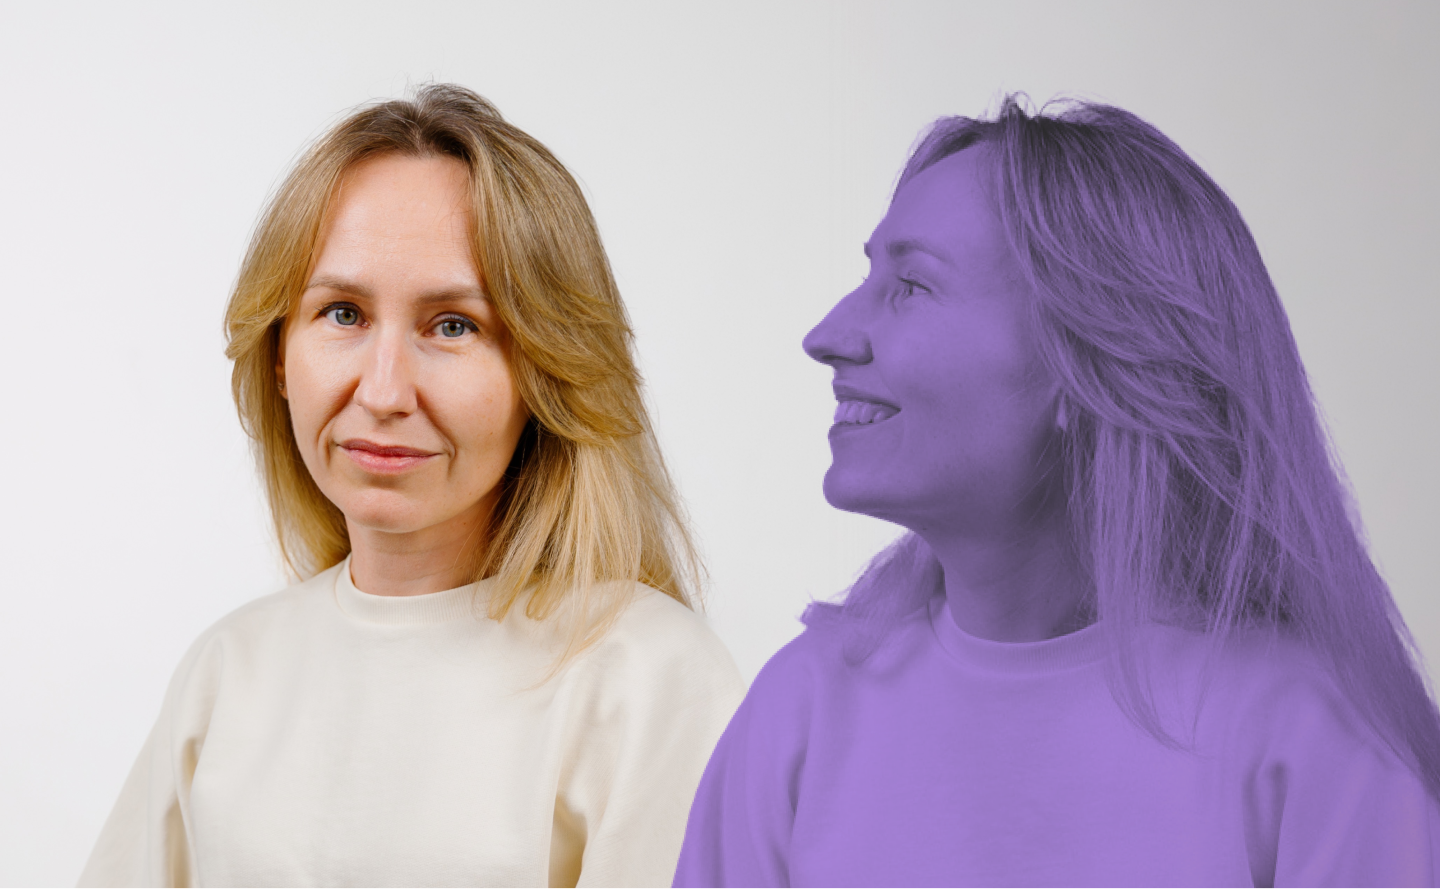
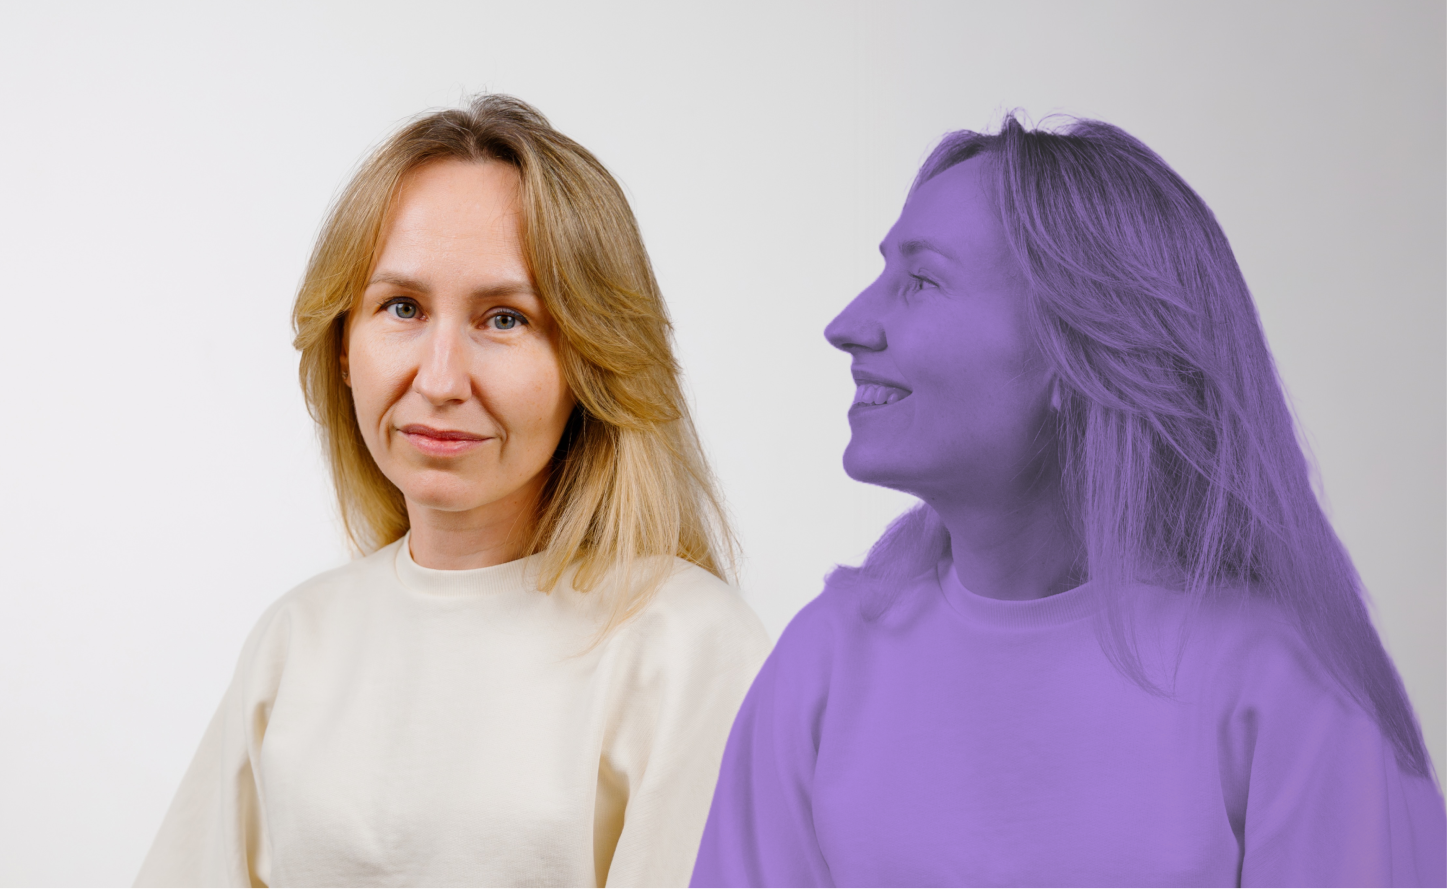
fixes

diff --git a/css/styles.css b/css/styles.css
@@ -11520,6 +11520,9 @@ footer .footer-btn:focus-visible {
     /* 11652 - 10849 */
     width: 403px;
     height: 154px;
+    /* Sit above the F11 orbital rings (.fs-f11__rings, z-index: 1)
+       wherever the two overlap. */
+    z-index: 2;
 }
 
 .fs-f11 .fs-f10__staircase {
@@ -12364,9 +12367,10 @@ a.fs-f11__cta-pdf:focus-visible,
 }
 
 /* Header sits on the dark canvas globally — keep its colors as-is, just
-   ensure it can read against light below it (header itself stays dark). */
+   ensure it can read against light below it (header itself stays dark).
+   Background inherits the shared header colour (var(--bg-secondary), #2F2F2F)
+   so it matches the header on every other page. */
 .exp-page header {
-    background: #272727;
     color: #FFFFFF;
 }
 
@@ -15047,7 +15051,6 @@ a.fs-f11__cta-pdf:focus-visible,
 }
 
 .art-page header {
-    background: #272727;
     color: #FFFFFF;
 }
 
@@ -20030,46 +20033,50 @@ a.fs-f11__cta-pdf:focus-visible,
     object-position: center;
 }
 
-/* Body portrait — scroll crossfade (women1 → women2); js/article.js sets --art-portrait-o1/o2. */
-.art-page--6 .art6-body__figure--scroll {
-    --art-portrait-o1: 1;
-    --art-portrait-o2: 0;
-    display: grid;
-    width: 820px;
-    max-width: 100%;
-    margin: 45px auto 105px;
-    padding: 0;
+/* Body portrait — violet backdrop + purple multiply tint that fades in as the
+   photo scrolls into view. Copied 1:1 from .article-7-photo2 (css/article-7.css);
+   js/main.js sets --photo2-progress 0→1, used by both pseudo-elements below. */
+.art-page--6 .art6-body__figure--photo2 {
+    position: relative;
+    overflow: hidden;
+    isolation: isolate;
+    background: #F4F4F4;
+    --photo2-progress: 0;
 }
 
-.art-page--6 .art6-body__figure--scroll .art6-body__figure-photo {
-    grid-area: 1 / 1;
+.art-page--6 .art6-body__figure--photo2 .art6-body__figure-photo--1 {
+    position: relative;
     display: block;
     width: 820px;
     max-width: 100%;
-    height: 923.69921875px;
+    height: auto;
     margin: 0 auto;
     object-fit: cover;
     object-position: center;
-}
-
-.art-page--6 .art6-body__figure--scroll .art6-body__figure-photo--1 {
-    opacity: var(--art-portrait-o1);
-    z-index: 0;
-}
-
-.art-page--6 .art6-body__figure--scroll .art6-body__figure-photo--2 {
-    opacity: var(--art-portrait-o2);
     z-index: 1;
 }
 
-@media (prefers-reduced-motion: reduce) {
-    .art-page--6 .art6-body__figure--scroll .art6-body__figure-photo--1 {
-        opacity: 1;
-    }
+/* Violet backdrop fades in (shows around subject if photo has alpha). */
+.art-page--6 .art6-body__figure--photo2::before {
+    content: '';
+    position: absolute;
+    inset: 0;
+    background: #aa6eff;
+    opacity: var(--photo2-progress);
+    pointer-events: none;
+    z-index: 0;
+}
 
-    .art-page--6 .art6-body__figure--scroll .art6-body__figure-photo--2 {
-        display: none;
-    }
+/* Multiplied purple tint over the photo. */
+.art-page--6 .art6-body__figure--photo2::after {
+    content: '';
+    position: absolute;
+    inset: 0;
+    background: rgba(105, 0, 255, 0.5);
+    mix-blend-mode: multiply;
+    opacity: var(--photo2-progress);
+    pointer-events: none;
+    z-index: 2;
 }
 
 .art-page--6 .art6-body--after-figure {
@@ -20438,7 +20445,7 @@ a.fs-f11__cta-pdf:focus-visible,
         object-position: center;
     }
 
-    .art-page--6 .art6-body__figure--scroll .art6-body__figure-photo {
+    .art-page--6 .art6-body__figure--photo2 .art6-body__figure-photo--1 {
         width: 100%;
         height: auto;
     }

diff --git a/js/main.js b/js/main.js
@@ -639,6 +639,36 @@ renderMenuEvents();
 })();
 
 /* ============================================================
+   Article 6 body portrait — same scroll-driven violet backdrop +
+   purple multiply tint as .article-7-photo2 above (copied 1:1).
+   Sets --photo2-progress 0→1 on the figure; CSS uses it for the
+   ::before backdrop and the ::after multiply overlay. Effect
+   completes when the photo reaches the middle of the viewport.
+   ============================================================ */
+(function () {
+    var block = document.querySelector('.art-page--6 .art6-body__figure--photo2');
+    if (!block) return;
+    var ticking = false;
+    function compute() {
+        ticking = false;
+        var rect = block.getBoundingClientRect();
+        var vh = window.innerHeight || document.documentElement.clientHeight;
+        var scrolled = vh - rect.top;
+        var totalScroll = vh + rect.height;
+        var progress = Math.max(0, Math.min(1, (scrolled / totalScroll) / 0.5));
+        block.style.setProperty('--photo2-progress', progress.toFixed(4));
+    }
+    function onScroll() {
+        if (ticking) return;
+        ticking = true;
+        window.requestAnimationFrame(compute);
+    }
+    compute();
+    window.addEventListener('scroll', onScroll, { passive: true });
+    window.addEventListener('resize', onScroll);
+})();
+
+/* ============================================================
    FullStudy F2 — scroll-driven 360° rotation of the orbital
    rings (.fs-f2__cta-art). Exact mirror of the section6/phase7
    IIFE above; progress 0..1 is set on the host section as

diff --git a/articles/6/index.html b/articles/6/index.html
@@ -141,9 +141,7 @@
           </div>
 
           <figure
-            class="art6-body__figure art6-body__figure--scroll"
-            data-portrait-layers="2"
-            data-portrait-fade="0.28,0.58"
+            class="art6-body__figure art6-body__figure--photo2"
             aria-hidden="true"
           >
             <img
@@ -151,13 +149,6 @@
               src="../../img/figma/article6/women1.png"
               width="820"
               alt=""
-            />
-            <img
-              class="art6-body__figure-photo art6-body__figure-photo--2"
-              src="../../img/figma/article6/women2.png"
-              width="820"
-              alt=""
-              aria-hidden="true"
             />
           </figure>
 
